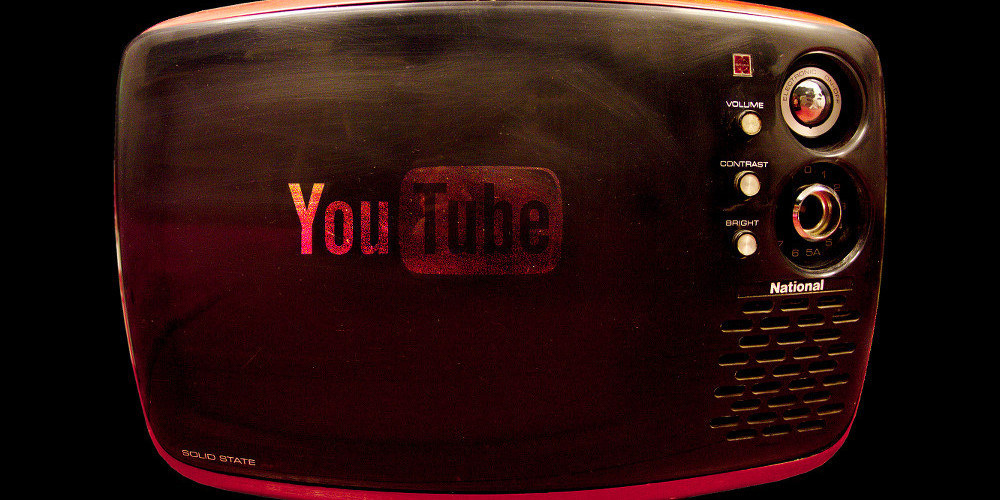
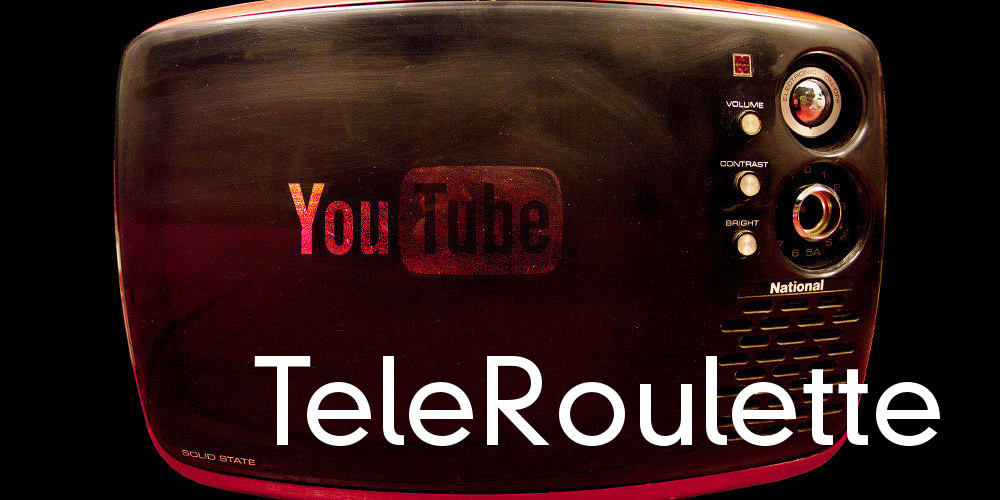
changed title image

Changed region(s): [[0.248, 0.69, 0.961, 0.9]]

diff --git a/project_summary.md b/project_summary.md
@@ -2,14 +2,13 @@
 TeleRoulette
 
 ## Authors
-- Pierre, Proske, [Github account - pierrep](https://github.com/pierrep)
+- Pierre, Proske, [Github account: pierrep](https://github.com/pierrep)
+
 
 ## Description
 TeleRoulette is an installation exploring the cultural impact of the vast archive of user submitted video content that is [YouTube](www.youtube.com). It also references the increasingly curated content we receive online as smarter data mining techniques begin to suggest content to us and guide our journey through the world wide web. Even without content suggestions, our individual searching patterns only ever take us down particular paths, we are limited by the kinds of keywords we generate and the interests that lead us there. TeleRoulette is an attempt to disrupt our predefined consumption patterns and rocket us into the dizzying, multicultural sprawl of video content that is available on-line, dressing up the experience with an element of retro-nostalgia and gameshow pizzaz.
 
-The motivation for TeleRoulette is to monitor the pulse of the web and capture the zeitgeist of the Internet through a stream of random videos.
-
-The result – different every time, but most likely intriguing, then dull, then disturbing, then really really funny.
+The motivation for TeleRoulette is to monitor the pulse of the web and capture the zeitgeist of the Internet through a stream of random videos. The result – different every time, but most likely intriguing, then dull, then disturbing, then really really funny.
 
 The diversity and volume of visual information gathered is filtered through a familiar "old" technology, the TV set, which is fast becoming obsolete as a Radio Frequency (RF) content provider. Employing a television and not simply a web browser is a form of media archaeology and helps to ground and contextualise the changes in media consumption we have been subject to since the advent of Internet streaming.
 
@@ -17,13 +16,13 @@ Turn the TV on and immediately be transfixed by the endless slide-show of random
 
 We are deluged with options and configuration possibilities these days. Tele-roulette is a solution to this. Just sink onto the couch and switch on the box.
 
-### Installation setup
+**Installation setup**
 The installation version of this project would consist of two elements:
 
-### Solid State Streaming
+**Solid State Streaming**
 Firstly a standalone reworked retro transistor TV would be placed on a plinth, with only a power cable leading from it. This would be playing endless random YouTube videos. Inside the TV would be a Raspberry Pi with a wireless USB dongle attached as well as a composite video to RF converter, enabling the device to play video content. Optionally the TV dial might be able to switch channels or change videos. From the outside, it would appear to be a normal TV with no internet connectivity visible.
 
-### The TeleRoulette
+**The TeleRoulette**
 A large wall of old Cathode Ray TVs looms above gallery viewers. In front of this edifice is a large spinnnable wheel labelled with 20-30 different words. Once the wheel has been spun, as it slows down it will eventually settle on a word, which is then automatically triggers a YouTube search using that word as a query term. Some of the words are labelled "random", and if these words are selected the search result returns a random video. Once a video has been selected, either randomly or through a search term, the TV wall lights us as each screen plays that same video.
  
 
